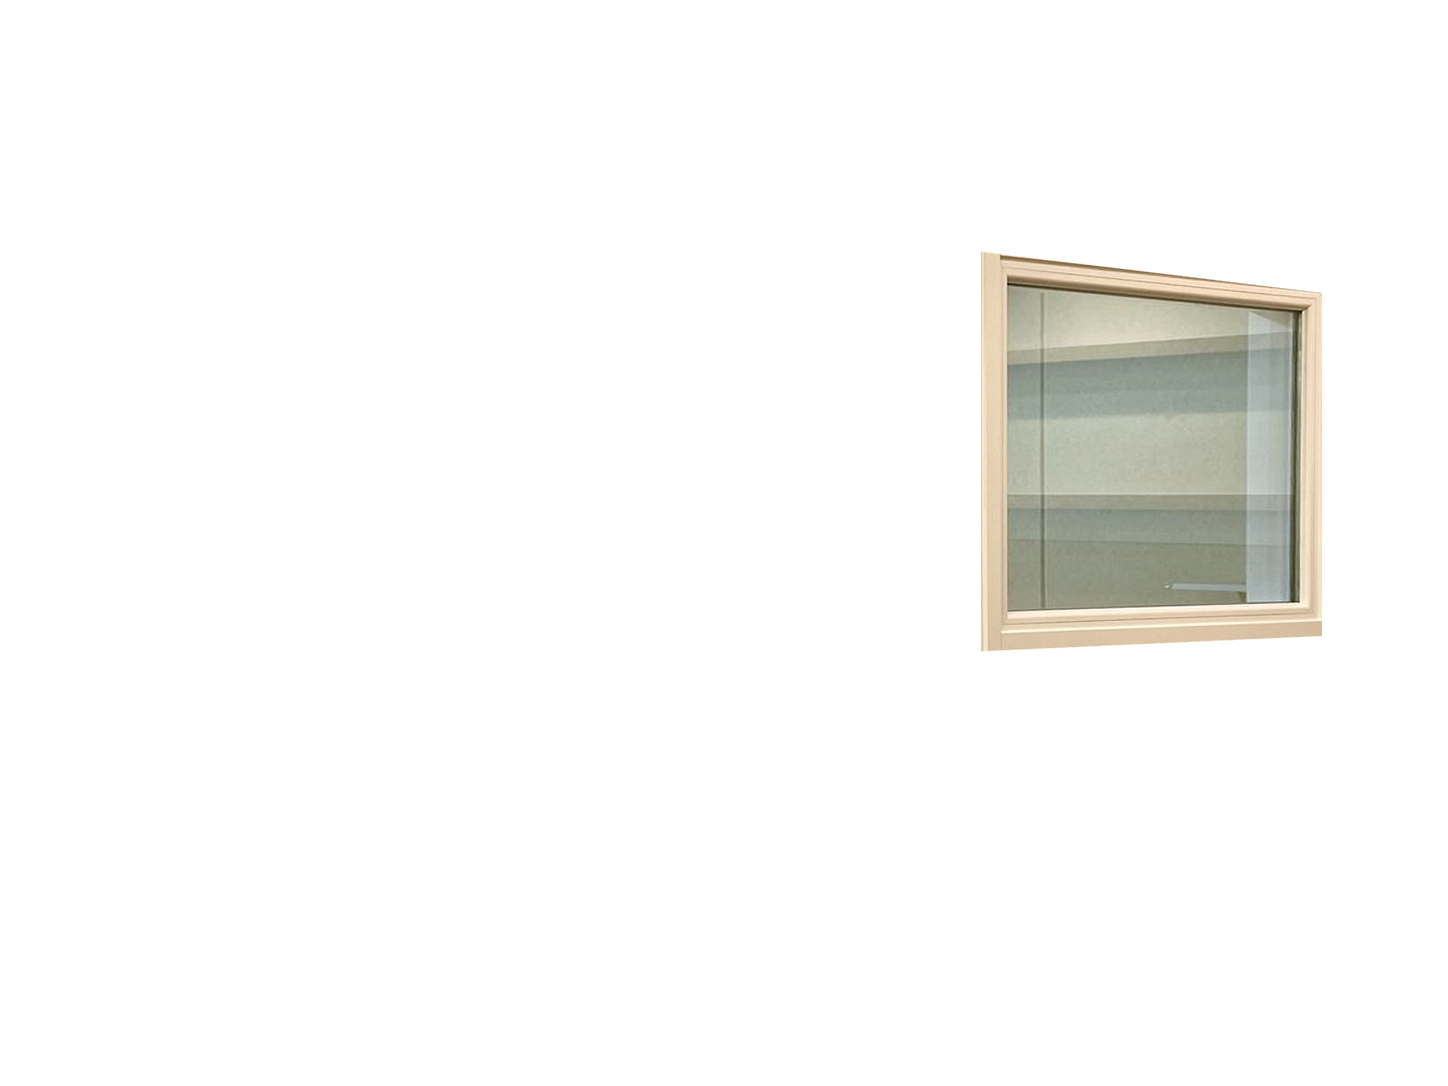
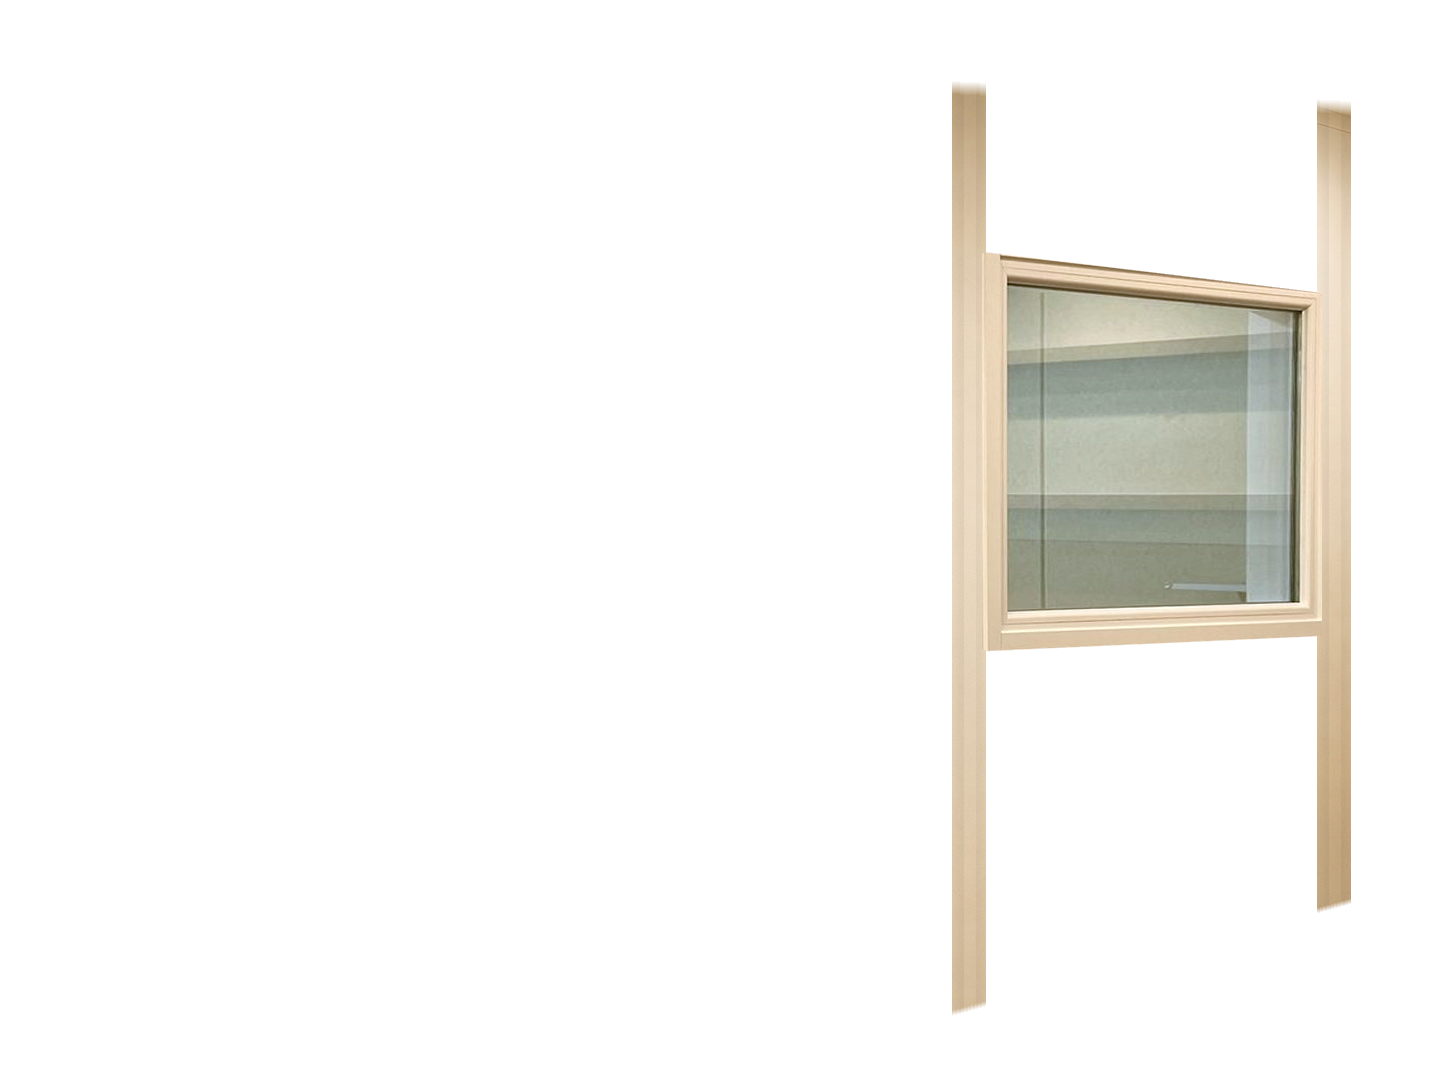
3D 시뮬레이터: 창 있을 때만 창 옆 세로 몰딩 + 아트보드 5색·몰딩 3색 자동 매칭

Changed region(s): [[0.6526, 0.0608, 0.6837, 0.942], [0.9012, 0.0912, 0.9323, 0.8508]]

diff --git a/assets/configurator.js b/assets/configurator.js
@@ -17,7 +17,7 @@ import * as THREE from './three.module.min.js';
 const PRICE = {
   base:    { ss: null, ssp: null, db: null, custom: null }, // 모델 기본가
   areaRate: null,
-  artboard:{ beige: null, beige_d: null, white: null, gray_l: null, gray_d: null, black: null, orange: null, melon: null, green: null, sky: null, blue: null, pink: null },
+  artboard:{ beige: null, white: null, gray_l: null, charcoal: null, black: null },
   slat:    { oak: null, walnut: null, white: null, whitewash: null, maple: null, teak: null, ash: null, dark: null },
   light:   { cob4000: null, rail: null },
   floor:   { oak: null, pine: null },
@@ -36,21 +36,25 @@ const MODELS = [
 ];
 
 /* 색은 여기에 한 줄만 추가하면 패널·3D·사양 요약에 동시에 반영됩니다.
-   아트보드 = 실제 멜란지 흡음 펠트 견본 12색 / 라인타공 = RG-LT3203 8종 */
+   아트보드 = 실제 멜란지 흡음 펠트 견본 / 라인타공 = RG-LT3203 8종 */
+/* 아트보드 5종 — 수급되는 핵심 단색·뉴트럴만 남깁니다 (주문재 색상은 정리) */
 const ARTBOARD = [
   { v:'beige',   label:'연베이지',   sub:'기본', hex:'#DCC9A9', rough:0.97 },
-  { v:'beige_d', label:'진베이지',   sub:'',     hex:'#BE9A62', rough:0.97 },
   { v:'white',   label:'화이트',     sub:'',     hex:'#E7E5E1', rough:0.96 },
-  { v:'gray_l',  label:'연그레이',   sub:'',     hex:'#C2C1BE', rough:0.97 },
-  { v:'gray_d',  label:'진그레이',   sub:'',     hex:'#737A82', rough:0.97 },
-  { v:'black',   label:'블랙',       sub:'',     hex:'#26292C', rough:0.95 },
-  { v:'orange',  label:'오렌지',     sub:'',     hex:'#EFA63A', rough:0.97 },
-  { v:'melon',   label:'메론',       sub:'',     hex:'#93CE6C', rough:0.97 },
-  { v:'green',   label:'그린',       sub:'',     hex:'#1E6A4D', rough:0.97 },
-  { v:'sky',     label:'스카이블루', sub:'',     hex:'#8FA8C8', rough:0.97 },
-  { v:'blue',    label:'블루',       sub:'',     hex:'#2C3C74', rough:0.97 },
-  { v:'pink',    label:'핑크',       sub:'',     hex:'#D2716F', rough:0.97 }
+  { v:'gray_l',  label:'라이트그레이', sub:'',   hex:'#C2C1BE', rough:0.97 },
+  { v:'charcoal',label:'차콜',       sub:'',     hex:'#4A4F55', rough:0.96 },
+  { v:'black',   label:'블랙',       sub:'',     hex:'#26292C', rough:0.95 }
 ];
+/* 몰딩 3종 — 실제 수급 가능한 색만 사용하고, 아트보드 색에 맞춰 자동으로 골라집니다 */
+const MOLDING = [
+  { v:'white', label:'화이트', hex:'#F3EFE6', rough:0.5 },
+  { v:'maple', label:'메이플', hex:'#D9C09A', rough:0.55 },
+  { v:'black', label:'블랙',   hex:'#2F3236', rough:0.46 }
+];
+const AB_MOLDING = { white:'white', beige:'maple', gray_l:'white', charcoal:'black', black:'black' };
+function moldingPick(){
+  return pick(MOLDING, AB_MOLDING[state.artboard] || 'white');
+}
 const SLAT = [
   { v:'oak',      label:'내추럴 오크', hex:'#C9B393', grain:'#8E7146', code:'001' },
   { v:'walnut',   label:'미디엄 월넛', hex:'#A08063', grain:'#5C3F27', code:'002' },
@@ -341,13 +345,13 @@ function buildPanel(){
     </section>
 
     <section class="sec">
-      <div class="sec-h"><span class="n">02</span><h2>아트보드 색상</h2><span class="tag">3면 · 12색</span></div>
+      <div class="sec-h"><span class="n">02</span><h2>아트보드 색상</h2><span class="tag">3면 · 5색</span></div>
       <div class="sw-circles">
         ${ARTBOARD.map(a => `<button type="button" class="csw" data-group="artboard" data-value="${a.v}" aria-pressed="false" title="${a.label}">
           <span class="cc" style="--c:${a.hex}"></span><span class="cl">${a.label}</span>
         </button>`).join('')}
       </div>
-      <p class="note">실제 멜란지 흡음 펠트 견본 12색입니다. 연베이지가 기본입니다.</p>
+      <p class="note">실제 멜란지 흡음 펠트 5색입니다. 연베이지가 기본이고, 고른 색에 맞춰 몰딩(화이트·메이플·블랙)이 자동으로 맞춰집니다.</p>
     </section>
 
     <section class="sec">
@@ -618,6 +622,8 @@ function specRows(){
   rows.push({ k:'규격', v:`${modelName()} ${dimText()}`, chg:state.model === 'custom',
               chip:'', sub:`${((state.w/1000)*(state.d/1000)).toFixed(2)}㎡` });
   rows.push({ k:'아트보드', v:a.label, chg:state.artboard !== DEFAULTS.artboard, chip:a.hex, sub:'3면' });
+  const mold = moldingPick();
+  rows.push({ k:'몰딩', v:mold.label, chg:false, chip:mold.hex, sub:'아트보드 색 연동 자동' });
   const slatPosLabel = state.slatPos === 'left' ? '좌측' : (state.slatPos === 'right' ? '우측' : '후면');
   rows.push({ k:'라인타공', v:`${s.label} · ${slatPosLabel}` + (s.code ? ` (${s.code})` : ''), chg:(state.slat !== DEFAULTS.slat || (state.slatPos && state.slatPos !== 'back')), chip:s.hex, sub:'1면' });
   rows.push({ k:'조명', v:(state.light === 'rail' ? '레일등' : 'COB 매립등 2구 · 주백색 4000K'), chg:state.light !== defaultLight(), chip:'', sub:(state.light === 'rail' ? (railRequired() ? '2,400mm 이상 필수' : '천장 트랙') : '') });
@@ -1556,7 +1562,11 @@ function glassMaterial(){
 }
 function metalMat(){ return new THREE.MeshStandardMaterial({ color: 0xC2C6CA, metalness: 0.95, roughness: 0.24, envMapIntensity: 1.15 }); }
 function darkMetalMat(){ return new THREE.MeshStandardMaterial({ color: 0x33363A, metalness: 0.85, roughness: 0.34, envMapIntensity: 1.0 }); }
-function trimsMat(){ return stdMat({ color: 0xF3EFE6, roughness: 0.5, metalness: 0.02, envMapIntensity: 0.45 }); }
+/* 몰딩 재질 — 아트보드 색에 따라 블랙·화이트·메이플 중 자동 선택 */
+function trimsMat(){
+  const m = moldingPick();
+  return stdMat({ color: m.hex, roughness: m.rough, metalness: 0.02, envMapIntensity: 0.28 });
+}
 
 /* ---- 벽 ---- */
 function wallDesc(name){
@@ -1699,11 +1709,14 @@ function addCeilReveal(g, width){
 }
 
 
-/* 외부 마감 — 하단 걸레받이 · 상단 밴드 · 모서리 트림 (실제 알판 시공 디테일) */
+/* 외부 마감 — 하단 걸레받이 · 상단 밴드 · 모서리 트림 · 창 주변 세로 몰딩
+   몰딩은 창이 있을 때만 창 좌우에 서고, 창이 없으면 알판끼리 바로 맞대어 마감합니다. */
 function addOuterTrims(g, width, openings){
-  const mat = stdMat({ color: 0xF7F3EB, roughness: 0.42, metalness: 0.03, envMapIntensity: 0.55 });
+  const mold = moldingPick();
+  const mat = stdMat({ color: mold.hex, roughness: mold.rough, metalness: 0.03, envMapIntensity: 0.35 });
   const zOut = -T/2 - 0.011;
   const doors = (openings || []).filter(o => o.y0 < 0.01);
+  const wins  = (openings || []).filter(o => o.y0 >= 0.01);
   const segs = [];
   if (!doors.length){
     segs.push([-width/2 + 0.03, width/2 - 0.03]);
@@ -1735,6 +1748,16 @@ function addOuterTrims(g, width, openings){
     m.position.set(sd * (width/2 - 0.028), WALL_TOP/2 - 0.06, zOut + 0.002);
     m.castShadow = true; m.receiveShadow = true;
     g.add(m);
+  });
+  // 창 주변 세로 몰딩 — 창이 있는 벽에만, 창틀 바깥에 세로로 세웁니다
+  const mh = WALL_TOP - 0.16;
+  wins.forEach(o => {
+    [o.x0 - 0.055, o.x0 + o.w + 0.055].forEach(x => {
+      const m = new THREE.Mesh(new THREE.BoxGeometry(0.05, mh, 0.013), mat);
+      m.position.set(x, 0.08 + mh/2, zOut - 0.001);
+      m.castShadow = true; m.receiveShadow = true;
+      g.add(m);
+    });
   });
 }
 /* 구멍 뚫린 판(문짝 등) */
@@ -2496,12 +2519,13 @@ function buildDoor(g, o, slatName){
     m.castShadow = true; m.receiveShadow = true;
     g.add(m);
   });
-  // 바깥쪽 아키트레이브 (사진의 넓은 흰 몰딩)
+  // 바깥쪽 아키트레이브 (넓은 몰딩 — 몰딩 색 자동 매칭)
+  const archMat = trimsMat();
   const arch = 0.062;
   [[o.x0 - arch/2 - 0.004, (o.h)/2, arch, o.h + arch],
    [o.x0 + o.w + arch/2 + 0.004, (o.h)/2, arch, o.h + arch],
    [o.x0 + o.w/2, o.h - 0.004 + arch/2, o.w + arch*2 + 0.008, arch]].forEach(([x, y, w, h]) => {
-    const m = new THREE.Mesh(new THREE.BoxGeometry(w, h, 0.022), white);
+    const m = new THREE.Mesh(new THREE.BoxGeometry(w, h, 0.022), archMat);
     m.position.set(x, y, -T/2 - 0.011);
     m.castShadow = true; m.receiveShadow = true;
     g.add(m);
@@ -3047,12 +3071,44 @@ function drawPhotoCeilingLight(ctx, W, H){
   const im = photoWinImgs[`side_${rail ? 'rail' : 'light'}_${pos}`];
   if (im && im.complete && im.naturalWidth) ctx.drawImage(im, 0, 0, W, H);
 }
+const photoWinTint = {};
+/* 창틀(몰딩) 색 자동 매칭 — 사진 속 창틀은 거의 같은 밝은 회백색이라 그 색만 골라 몰딩 색으로 입힙니다 */
+function tintedWindowImage(im, winVal, pos){
+  const mold = moldingPick();
+  if (mold.v === 'white') return im;
+  const key = `${winVal}|${pos}|${mold.v}`;
+  if (photoWinTint[key]) return photoWinTint[key];
+  try {
+    const c = document.createElement('canvas');
+    c.width = im.naturalWidth; c.height = im.naturalHeight;
+    const cx = c.getContext('2d', { willReadFrequently: true });
+    cx.drawImage(im, 0, 0);
+    const id = cx.getImageData(0, 0, c.width, c.height);
+    const d = id.data;
+    const t = photoHexToRgb(mold.hex);
+    for (let p = 0; p < d.length; p += 4){
+      if (d[p+3] < 40) continue;
+      const r = d[p], g = d[p+1], b = d[p+2];
+      /* 창틀 톤(밝고 무채색에 가까운 픽셀)만 골라 몰딩 색을 곱합니다 */
+      if (r > 205 && g > 200 && b > 190 && Math.abs(r - g) < 16 && Math.abs(g - b) < 16){
+        const lum = (0.299*r + 0.587*g + 0.114*b) / 246;
+        d[p]   = Math.min(255, t[0] * lum);
+        d[p+1] = Math.min(255, t[1] * lum);
+        d[p+2] = Math.min(255, t[2] * lum);
+      }
+    }
+    cx.putImageData(id, 0, 0);
+    photoWinTint[key] = c;
+    return c;
+  } catch (e){ return im; }
+}
 function drawPhotoWindow(ctx, W, H, winVal){
   if (!winVal || winVal === 'none') return;
   /* 시창 위치: 좌측은 오른쪽 벽용 원본을 좌우 반대로, 후면은 후면 벽용으로 미리 만든 이미지를 썺니다 */
   const pos = state.winPos || 'left';
   const im = photoWinImgs[pos === 'back' ? `back_${winVal}` : winVal];
   if (!im || !im.complete || !im.naturalWidth) return;
+  const src = tintedWindowImage(im, winVal, pos);
   ctx.save();
   if (winVal === 'double1200') ctx.filter = 'drop-shadow(-4px 4px 6px rgba(0,0,0,0.28))';
   else ctx.filter = 'drop-shadow(-2px 2px 3px rgba(0,0,0,0.14))';
@@ -3060,7 +3116,7 @@ function drawPhotoWindow(ctx, W, H, winVal){
     ctx.translate(W, 0);
     ctx.scale(-1, 1);
   }
-  ctx.drawImage(im, 0, 0, W, H);
+  ctx.drawImage(src, 0, 0, W, H);
   ctx.restore();
 }
 /* 에셋이 여러 장 동시에 로드될 때 매번 150만 픽셀을 다시 그리지 않도록 프레임당 1회로 합칩니다 */
@@ -3231,14 +3287,14 @@ function renderPhotoStage(){
    - 문 좌측 + 우경첩 = 문짝만 반전한 사진
    - 문 우측 + 우경첩 = 원본을 좌우 반전
    - 문 우측 + 좌경첩 = 문짝만 반전한 사진을 좌우 반전 */
-const PHOTO_OUT_SRC = 'assets/exterior-clean.jpg';
-const PHOTO_OUT_SRC_HG = 'assets/exterior-clean-hg.jpg?v=20261122a';
+const PHOTO_OUT_SRC = 'assets/exterior-clean.jpg?v=20261124a';
+const PHOTO_OUT_SRC_HG = 'assets/exterior-clean-hg.jpg?v=20261124a';
 /* 실사 외부 우측 벽에 원근에 맞춰 미리 합성해 둔 시창 오버레이 — 사진과 같은 1448×1086 */
 const PHOTO_OUT_WIN = {
-  '600x800':  'assets/exterior-win-600.png?v=1',
-  '800x800':  'assets/exterior-win-800.png?v=1',
-  '1200x800': 'assets/exterior-win-1200.png?v=1',
-  'double1200':'assets/exterior-win-double.png?v=1'
+  '600x800':  'assets/exterior-win-600.png?v=20261124a',
+  '800x800':  'assets/exterior-win-800.png?v=20261124a',
+  '1200x800': 'assets/exterior-win-1200.png?v=20261124a',
+  'double1200':'assets/exterior-win-double.png?v=20261124a'
 };
 let photoOutHgPreload = null;
 function preloadPhotoOutHg(){

diff --git a/configurator.html b/configurator.html
@@ -43,8 +43,8 @@
   <section class="stage" id="stage" aria-label="방음부스 3D 미리보기">
     <canvas id="scene"></canvas>
     <canvas id="photoStage" hidden style="position:absolute;inset:0;width:100%;height:100%;object-fit:cover;z-index:2;pointer-events:none;transform:scale(1.07);transform-origin:center 52%;"></canvas>
-    <img id="photoOutStage" src="assets/exterior-clean.jpg" alt="베오방음 실사 외부" hidden style="display:none;position:absolute;inset:0;width:100%;height:100%;object-fit:cover;z-index:2;pointer-events:none;">
-    <img id="photoOutWin" src="assets/exterior-win-800.png?v=1" alt="" aria-hidden="true" hidden style="display:none;position:absolute;inset:0;width:100%;height:100%;object-fit:cover;z-index:2;pointer-events:none;">
+    <img id="photoOutStage" src="assets/exterior-clean.jpg?v=20261124a" alt="베오방음 실사 외부" hidden style="display:none;position:absolute;inset:0;width:100%;height:100%;object-fit:cover;z-index:2;pointer-events:none;">
+    <img id="photoOutWin" src="assets/exterior-win-800.png?v=20261124a" alt="" aria-hidden="true" hidden style="display:none;position:absolute;inset:0;width:100%;height:100%;object-fit:cover;z-index:2;pointer-events:none;">
     <p class="fs-hint" aria-hidden="true">
       <svg viewBox="0 0 24 24" fill="none" stroke="currentColor" stroke-width="1.9" stroke-linecap="round" stroke-linejoin="round"><path d="M4 8h11a5 5 0 0 1 0 10H9"/><path d="M8 4 4 8l4 4"/></svg>
       <span>가로로 돌리면 부스가 화면에 꽉 차게 보입니다</span>
@@ -169,7 +169,7 @@
 
 <div class="toast" id="toast" role="status" aria-live="polite"></div>
 
-<script type="module" src="assets/configurator.js?v=20261123e"></script>
+<script type="module" src="assets/configurator.js?v=20261124a"></script>
 <noscript>
   <style>.panel-body{display:none}.panel-foot{display:none}</style>
   <p style="padding:20px">3D 견적 시뮬레이터는 자바스크립트가 필요합니다. 전화 상담 <a href="tel:01030015906">010-3001-5906</a> 으로 문의해 주세요.</p>
